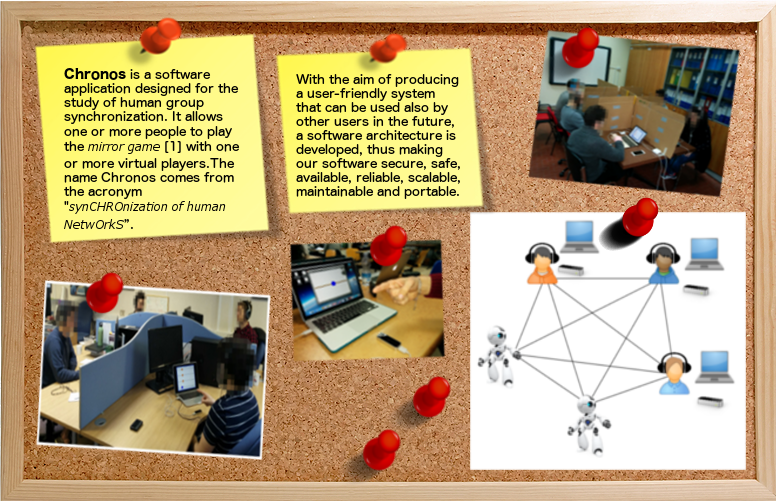
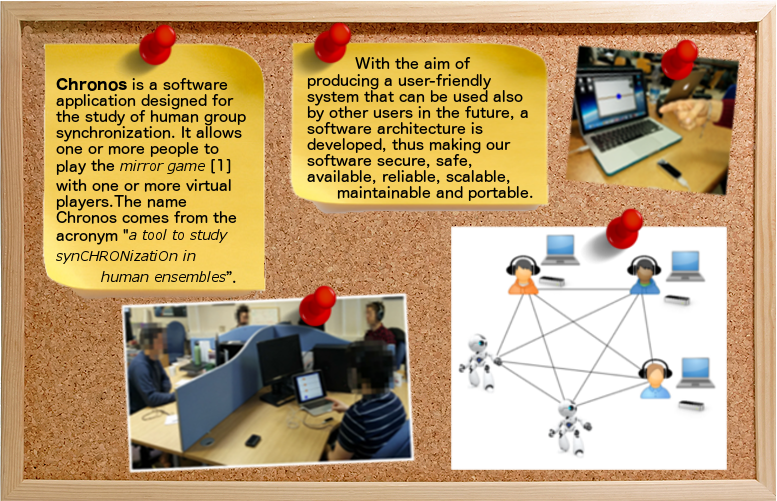
change of pinboard and right box

diff --git a/index.html b/index.html
@@ -31,7 +31,7 @@
 				<tr>
 				<td style="vertical-align:top">
 				<img alt="" src="img/logo.png" height="110" width="400" class="left"/>
-				<h4>"synCHROnization of human NetwOrkS"</h4>
+				<h5>"a tool to study synCHRONizatiOn in human ensembleS"</h5>
 				</td>
 				<td style="vertical-align:top">
 				<img alt="" src="img/creation.png" height="130" width="425" class="left"/>	
@@ -152,15 +152,6 @@
 								fax: +39 081-7683186<br>
 								e-mail: <a href="mailto:mario.dibernardo@unina.it">mario.dibernardo@unina.it</a><br>
 								e-mail: <a href="mailto:enmdb@bristol.ac.uk">enmdb@bristol.ac.uk<a/>
-								<br></br>
-								<h6><a href="http://www.bristol.ac.uk/engineering/people/gianfranco-fiore">Dr. Gianfranco Fiore</a></h6>
-								e-mail: <a href="mailto:gf14712@bristol.ac.uk">gf14712@bristol.ac.uk</a>
-								<br></br>
-								<h6><a href="http://www.bristol.ac.uk/engineering/people/francesco-alderisio">Francesco Alderisio</a></h6>
-								e-mail: <a href="mailto:f.alderisio@bristol.ac.uk">f.alderisio@bristol.ac.uk</a>
-								<br></br>
-								<h6>Maria Lombardi</h6>
-								e-mail: <a href="mailto:maria.lombardi6@studenti.unina.it">maria.lombardi6@studenti.unina.it</a>
 							</div>
 						</div>
 						

diff --git a/style.css b/style.css
@@ -209,6 +209,14 @@ img.bordered {
 img.left {margin: 0 15px 12px 0;}
 img.right {margin: 0 0 15px 12px;}
 
+div.caption {
+  font: normal 1.6em Arial,sans-serif;
+  font-size: 100%;
+  color:#000;
+  margin-bottom: 5px;
+  margin-top: 5px;
+}
+
 
 /* 
    Floats
@@ -277,11 +285,11 @@ img.right {margin: 0 0 15px 12px;}
 
 /* Toplinks */
 #toplinks {
-	background: #353530 url('img/toplinks.gif') no-repeat left top;
+	background: #353530 url('img/toplinks.gif') no-repeat left bottom;
 	color: #554;
 	float: right;
 	font-size: 0.9em;
-	height: 27px;
+	height: 25px; /*stava 27*/
 	width: 230px;
 }
 #toplinks_inner {

diff --git a/about_us.html b/about_us.html
@@ -30,7 +30,7 @@
 				<tr>
 				<td style="vertical-align:top">
 				<img alt="" src="img/logo.png" height="110" width="400" class="left"/>
-				<h4>"synCHROnization of human NetwOrkS"</h4>
+				<h5>"a tool to study synCHRONizatiOn in human ensembleS"</h5>
 				</td>
 				<td style="vertical-align:top">
 				<img alt="" src="img/creation.png" height="130" width="425" class="left"/>	

diff --git a/control_details.html b/control_details.html
@@ -36,7 +36,7 @@
 				<tr>
 				<td style="vertical-align:top">
 				<img alt="" src="img/logo.png" height="110" width="400" class="left"/>
-				<h4>"synCHROnization of human NetwOrkS"</h4>
+				<h5>"a tool to study synCHRONizatiOn in human ensembleS"</h5>
 				</td>
 				<td style="vertical-align:top">
 				<img alt="" src="img/creation.png" height="130" width="425" class="left"/>	

diff --git a/download.html b/download.html
@@ -30,7 +30,7 @@
 				<tr>
 				<td style="vertical-align:top">
 				<img alt="" src="img/logo.png" height="110" width="400" class="left"/>
-				<h4>"synCHROnization of human NetwOrkS"</h4>
+				<h5>"a tool to study synCHRONizatiOn in human ensembleS"</h5>
 				</td>
 				<td style="vertical-align:top">
 				<img alt="" src="img/creation.png" height="130" width="425" class="left"/>	

diff --git a/publications.html b/publications.html
@@ -30,7 +30,7 @@
 				<tr>
 				<td style="vertical-align:top">
 				<img alt="" src="img/logo.png" height="110" width="400" class="left"/>
-				<h4>"synCHROnization of human NetwOrkS"</h4>
+				<h5>"a tool to study synCHRONizatiOn in human ensembleS"</h5>
 				</td>
 				<td style="vertical-align:top">
 				<img alt="" src="img/creation.png" height="130" width="425" class="left"/>	

diff --git a/software_details.html b/software_details.html
@@ -36,7 +36,7 @@
 				<tr>
 				<td style="vertical-align:top">
 				<img alt="" src="img/logo.png" height="110" width="400" class="left"/>
-				<h4>"synCHROnization of human NetwOrkS"</h4>
+				<h5>"a tool to study synCHRONizatiOn in human ensembleS"</h5>
 				</td>
 				<td style="vertical-align:top">
 				<img alt="" src="img/creation.png" height="130" width="425" class="left"/>	

diff --git a/supp_material.html b/supp_material.html
@@ -30,7 +30,7 @@
 				<tr>
 				<td style="vertical-align:top">
 				<img alt="" src="img/logo.png" height="110" width="400" class="left"/>
-				<h4>"synCHROnization of human NetwOrkS"</h4>
+				<h5>"a tool to study synCHRONizatiOn in human ensembleS"</h5>
 				</td>
 				<td style="vertical-align:top">
 				<img alt="" src="img/creation.png" height="130" width="425" class="left"/>	

diff --git a/tutorial.html b/tutorial.html
@@ -30,7 +30,7 @@
 				<tr>
 				<td style="vertical-align:top">
 				<img alt="" src="img/logo.png" height="110" width="400" class="left"/>
-				<h4>"synCHROnization of human NetwOrkS"</h4>
+				<h5>"a tool to study synCHRONizatiOn in human ensembleS"</h5>
 				</td>
 				<td style="vertical-align:top">
 				<img alt="" src="img/creation.png" height="130" width="425" class="left"/>	
